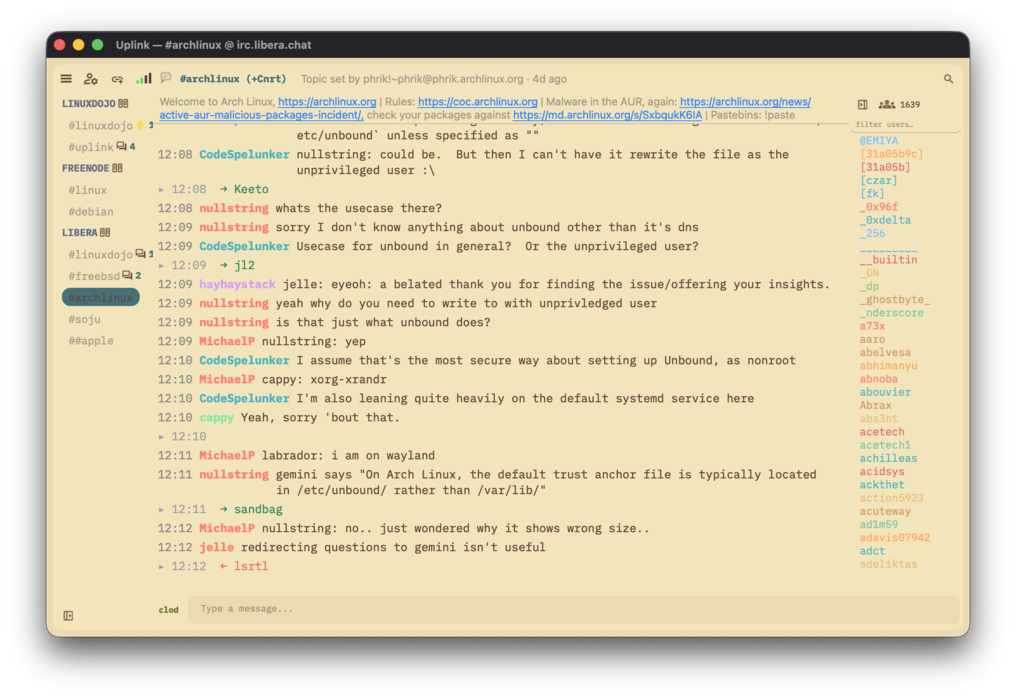
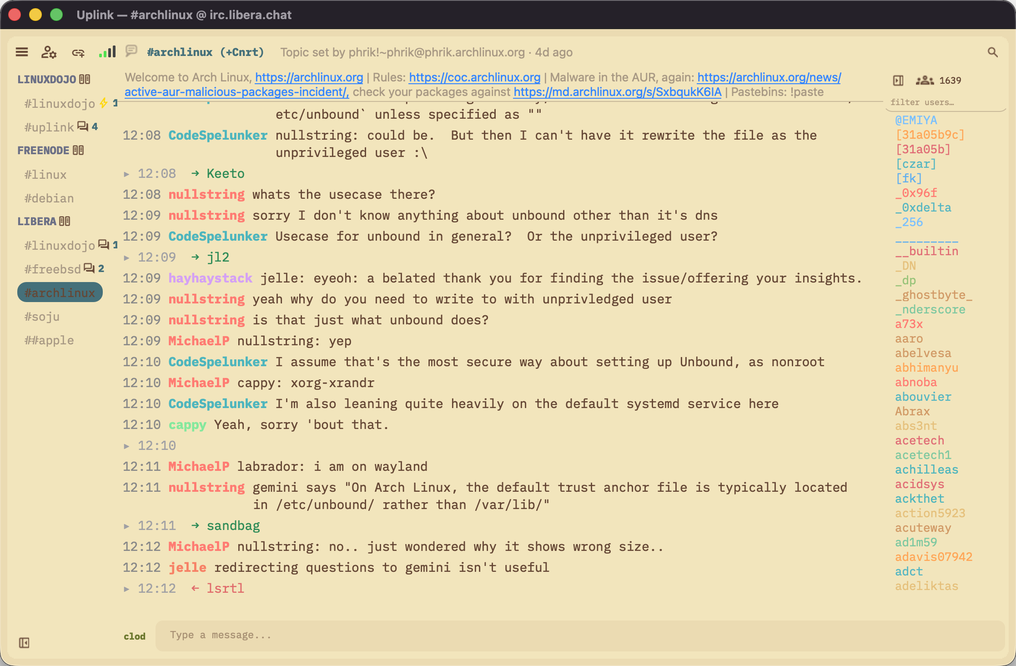
Replace gruvbox-light, harmonic16, nord screenshots with clean captures
New transparent macOS window captures cropped to the window (1016x666,
no black desktop background), used card-style like the other screenshots.
Update their height attributes to match. humanoid-light still pending.

diff --git a/docs/index.html b/docs/index.html
@@ -511,7 +511,7 @@
     <div class="hero-frame">
       <img src="assets/gruvbox-dark.png" alt="Uplink in Gruvbox Dark theme" width="1016" height="824">
       <img src="assets/dracula.png" alt="Uplink in Dracula theme" width="1016" height="824">
-      <img src="assets/gruvbox-light.png" alt="Uplink in Gruvbox Light theme" width="1016" height="698">
+      <img src="assets/gruvbox-light.png" alt="Uplink in Gruvbox Light theme" width="1016" height="666">
     </div>
   </div>
 </header>
@@ -642,12 +642,12 @@
     <div class="theme-stage">
       <img id="shot-gruvbox-dark" class="show" src="assets/gruvbox-dark.png" alt="Uplink in Gruvbox Dark" width="1016" height="824" loading="lazy">
       <img id="shot-dracula" src="assets/dracula.png" alt="Uplink in Dracula" width="1016" height="824" loading="lazy">
-      <img id="shot-gruvbox-light" src="assets/gruvbox-light.png" alt="Uplink in Gruvbox Light" width="1016" height="698" loading="lazy">
-      <img id="shot-nord" src="assets/nord.png" alt="Uplink in Nord" width="1016" height="698" loading="lazy">
+      <img id="shot-gruvbox-light" src="assets/gruvbox-light.png" alt="Uplink in Gruvbox Light" width="1016" height="666" loading="lazy">
+      <img id="shot-nord" src="assets/nord.png" alt="Uplink in Nord" width="1016" height="666" loading="lazy">
       <img id="shot-flexor-dark" src="assets/flexor-dark.png" alt="Uplink in Flexor Dark" width="1016" height="824" loading="lazy">
       <img id="shot-acton" src="assets/acton.png" alt="Uplink in Acton" width="1016" height="824" loading="lazy">
       <img id="shot-zenburn" src="assets/zenburn.png" alt="Uplink in Zenburn" width="1016" height="824" loading="lazy">
-      <img id="shot-harmonic16" src="assets/harmonic16.png" alt="Uplink in Harmonic16" width="1016" height="698" loading="lazy">
+      <img id="shot-harmonic16" src="assets/harmonic16.png" alt="Uplink in Harmonic16" width="1016" height="666" loading="lazy">
       <img id="shot-humanoid-light" src="assets/humanoid-light.png" alt="Uplink in Humanoid Light" width="1016" height="698" loading="lazy">
     </div>
     <p class="theme-count"><b>297 more</b> in Preferences → Theme. Per-widget font sizes, hanging indent toggle, and a collapsible sidebar round out the fit-and-finish.</p>
